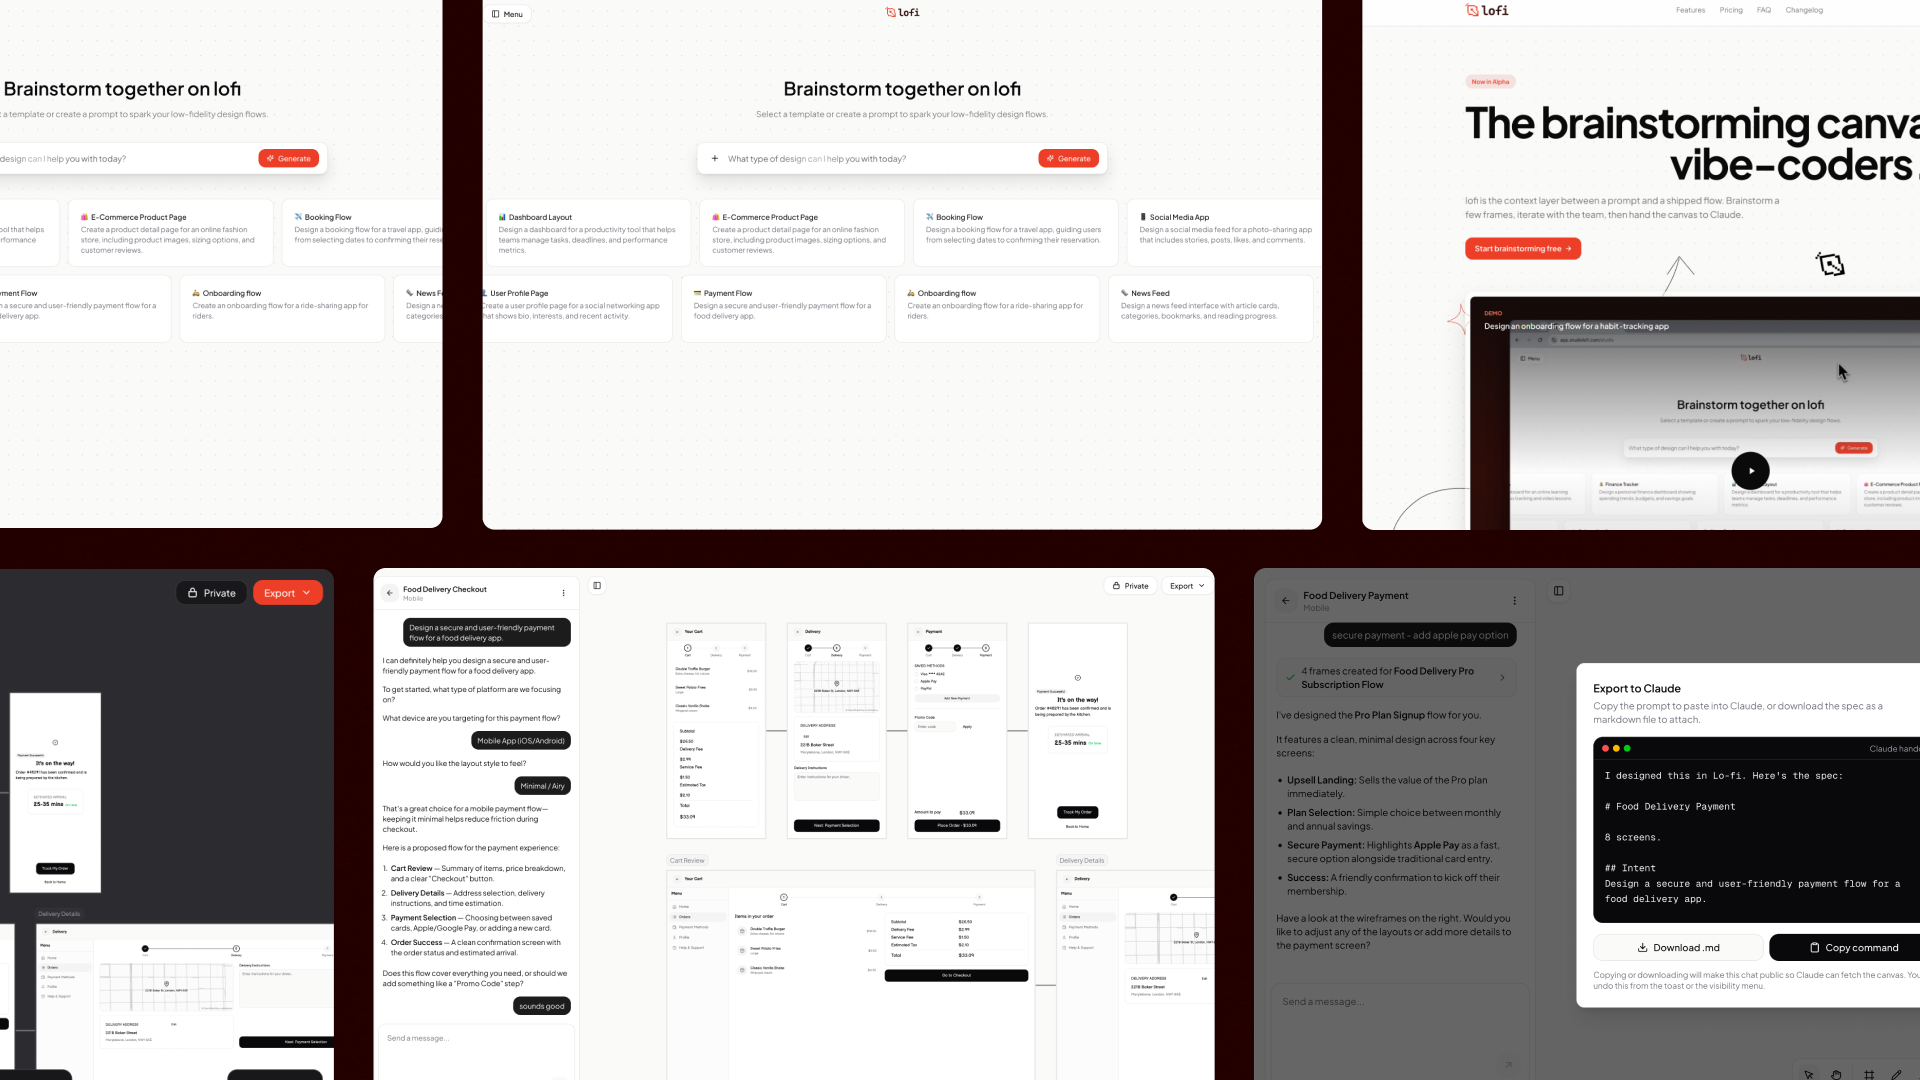
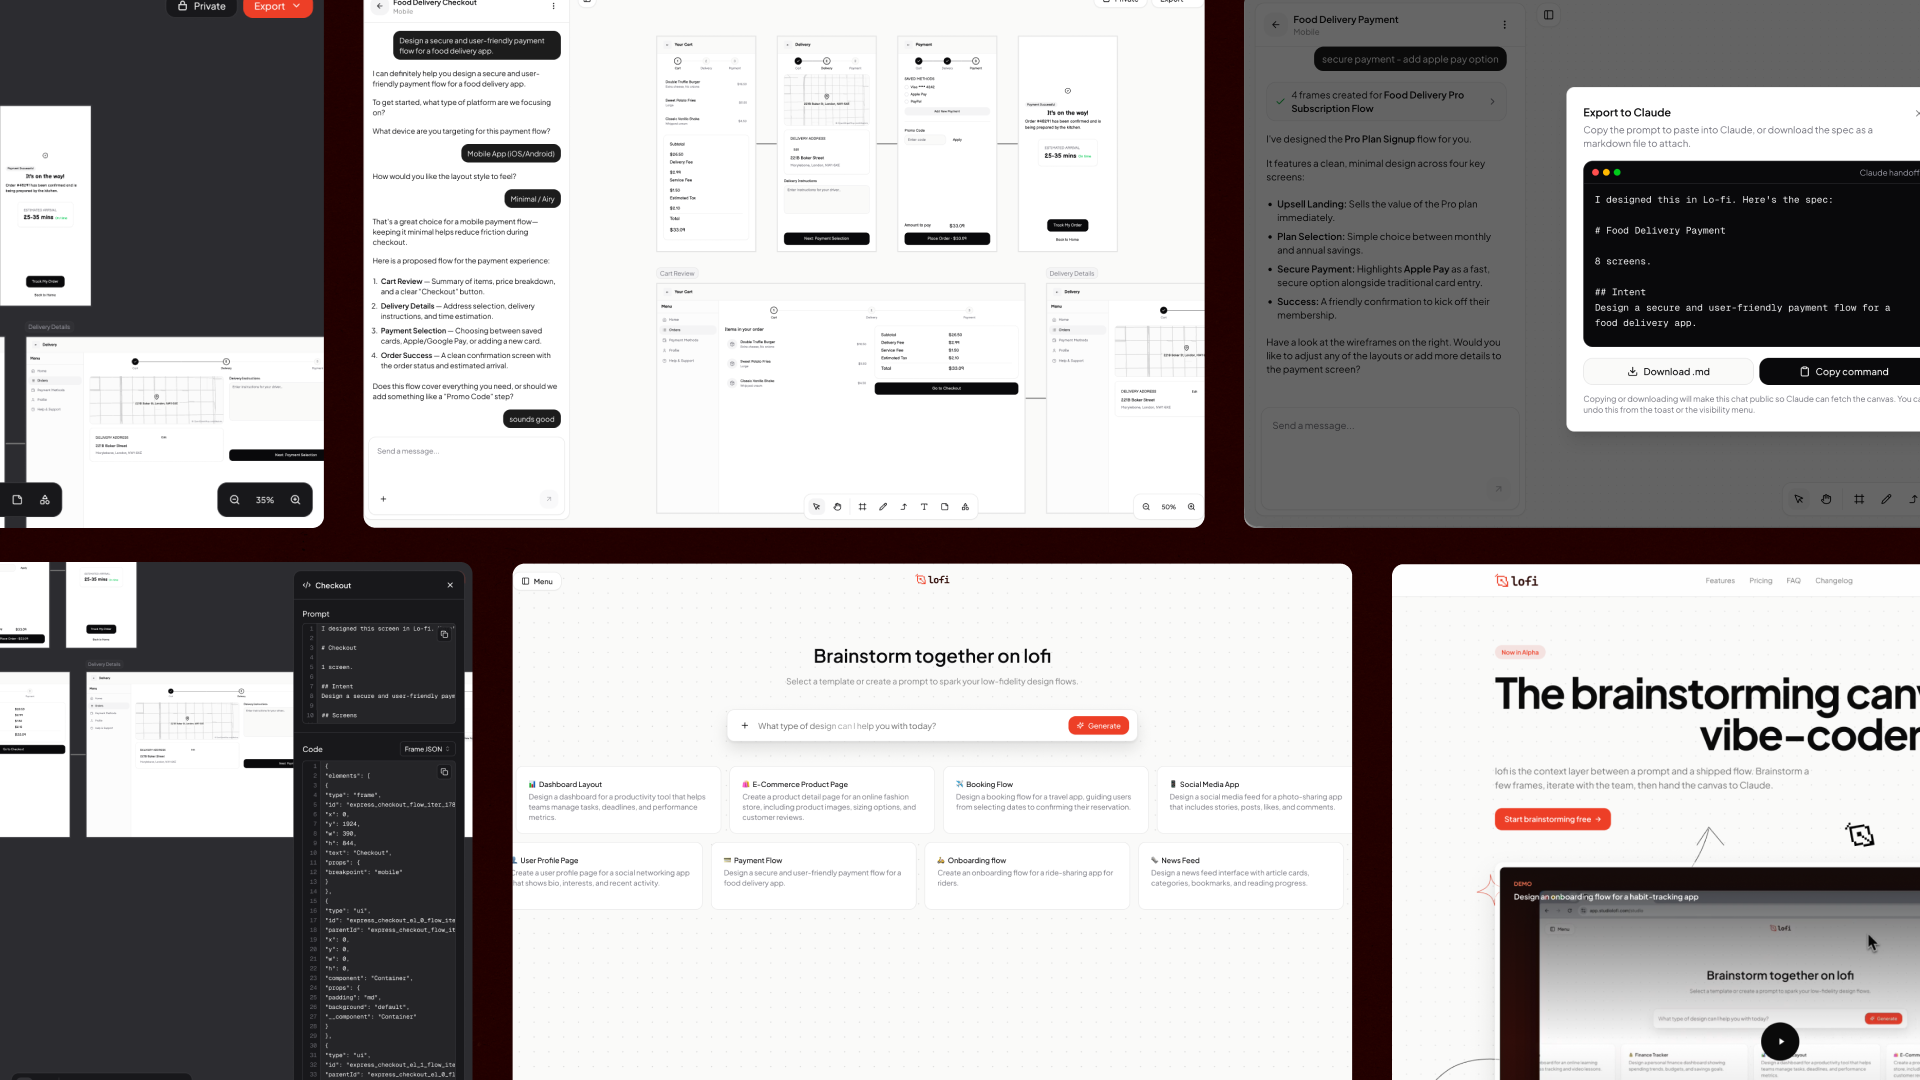
Update Lofi App project: new cover, title, placement, and nav order
- Replace cover-lofi.png with updated export
- Rename project to Lofi App on lofi.html and the home work card
- Move Lofi App card between ShurePlus Play and Data Lifecycle
- Move demo video above the role details text on lofi.html; drop teaser lead-in
- Hide Aivvy card on the home page (page kept, card commented out)
- Fix next-project links to match new order; align AONIC next label

diff --git a/lofi.html b/lofi.html
@@ -359,7 +359,7 @@
 
       <!-- ① OVERVIEW ────────────────────────────────────── -->
       <div class="pp-overview">
-        <h1 class="pp-overview-title">Lofi</h1>
+        <h1 class="pp-overview-title">Lofi App</h1>
         <div class="pp-overview-right">
           <p class="pp-overview-label">Overview</p>
           <p class="pp-overview-desc">The brainstorming canvas for vibe-coders. Lay out the flow and figure out the structure before you prompt.</p>
@@ -403,22 +403,22 @@
         <p class="pp-section-desc">Co-founder, working alongside my technical partner across design, code, and the business.</p>
       </div>
 
-      <div class="pp-text">
-        <p>Throughout the process I contributed about 70% of the code (with AI), registered the company, built out the monetization model, and implemented the end-to-end flow, including the APIs and integrations with Render, GitHub, and email services.</p>
-        <p>This is just the start, and a trial of how to design and build a product from scratch in the age of AI. It's amazing what a two-person team can achieve!</p>
-        <p>We launched our Alpha in July 2026 and are building in public, shipping updates to the app every single week. Check us out at <a href="https://studiolofi.com" target="_blank" rel="noopener">studiolofi.com</a>, and here's a short teaser of the product:</p>
-      </div>
-
       <!-- ⑩ DEMO VIDEO ──────────────────────────────────── -->
       <div class="pp-embed">
         <iframe src="https://www.youtube.com/embed/bqGglM6SBQE" title="Lofi demo" allow="accelerometer; autoplay; clipboard-write; encrypted-media; gyroscope; picture-in-picture" allowfullscreen></iframe>
+      </div>
+
+      <div class="pp-text">
+        <p>Throughout the process I contributed about 70% of the code (with AI), registered the company, built out the monetization model, and implemented the end-to-end flow, including the APIs and integrations with Render, GitHub, and email services.</p>
+        <p>This is just the start, and a trial of how to design and build a product from scratch in the age of AI. It's amazing what a two-person team can achieve!</p>
+        <p>We launched our Alpha in July 2026 and are building in public, shipping updates to the app every single week. Check us out at <a href="https://studiolofi.com" target="_blank" rel="noopener">studiolofi.com</a>.</p>
       </div>
 
       <!-- ⑫ BOTTOM NAVIGATION ───────────────────────────── -->
       <div class="pp-nav">
         <a href="index.html" class="pp-nav-back">← Back to Home</a>
         <span class="pp-nav-spacer"></span>
-        <a href="plan-and-pricing.html" class="pp-nav-next">Plan and Pricing →</a>
+        <a href="data-lifecycle.html" class="pp-nav-next">Data Lifecycle →</a>
       </div>
 
     </div><!-- /.pp-content -->

diff --git a/index.html b/index.html
@@ -220,19 +220,6 @@
 
       <div class="works-grid">
 
-        <a class="work-card" href="lofi.html">
-          <div class="work-thumb-wrap">
-            <img class="work-thumb" src="images/cover-lofi.png" alt="Lofi" />
-          </div>
-          <div class="work-meta">
-            <div>
-              <div class="work-title">Lofi</div>
-              <div class="work-company">Studio Lofi</div>
-            </div>
-            <span class="work-year">2026</span>
-          </div>
-        </a>
-
         <a class="work-card" href="plan-and-pricing.html">
           <div class="work-thumb-wrap">
             <img class="work-thumb" src="images/cover-plan-pricing.png" alt="Plan and Pricing" />
@@ -269,6 +256,19 @@
               <div class="work-company">Shure</div>
             </div>
             <span class="work-year">2019</span>
+          </div>
+        </a>
+
+        <a class="work-card" href="lofi.html">
+          <div class="work-thumb-wrap">
+            <img class="work-thumb" src="images/cover-lofi.png" alt="Lofi App" />
+          </div>
+          <div class="work-meta">
+            <div>
+              <div class="work-title">Lofi App</div>
+              <div class="work-company">Studio Lofi</div>
+            </div>
+            <span class="work-year">2026</span>
           </div>
         </a>
 
@@ -324,6 +324,7 @@
           </div>
         </a>
 
+        <!-- Aivvy hidden for now — restore by uncommenting
         <a class="work-card" href="aivvy.html">
           <div class="work-thumb-wrap">
             <img class="work-thumb" src="images/cover-aivvy.webp" alt="Aivvy Headphones" />
@@ -336,6 +337,8 @@
             <span class="work-year">2016</span>
           </div>
         </a>
+        -->
+
 
       </div>
     </section>

diff --git a/shure-aonic.html b/shure-aonic.html
@@ -394,7 +394,7 @@
       <div class="pp-nav">
         <a href="index.html" class="pp-nav-back">← Back to Home</a>
         <span class="pp-nav-spacer"></span>
-        <a href="product-led-growth.html" class="pp-nav-next">In-Product Growth →</a>
+        <a href="product-led-growth.html" class="pp-nav-next">Product-Led Growth Experiments →</a>
       </div>
 
     </div>

diff --git a/shure-channels.html b/shure-channels.html
@@ -277,7 +277,7 @@
       <div class="pp-nav">
         <a href="index.html" class="pp-nav-back">← Back to Home</a>
         <span class="pp-nav-spacer"></span>
-        <a href="aivvy.html" class="pp-nav-next">Aivvy →</a>
+        <a href="plan-and-pricing.html" class="pp-nav-next">Plan and Pricing →</a>
       </div>
 
     </div>

diff --git a/shure-play.html b/shure-play.html
@@ -258,7 +258,7 @@
       <div class="pp-nav">
         <a href="index.html" class="pp-nav-back">← Back to Home</a>
         <span class="pp-nav-spacer"></span>
-        <a href="data-lifecycle.html" class="pp-nav-next">Data Lifecycle →</a>
+        <a href="lofi.html" class="pp-nav-next">Lofi App →</a>
       </div>
 
     </div>
